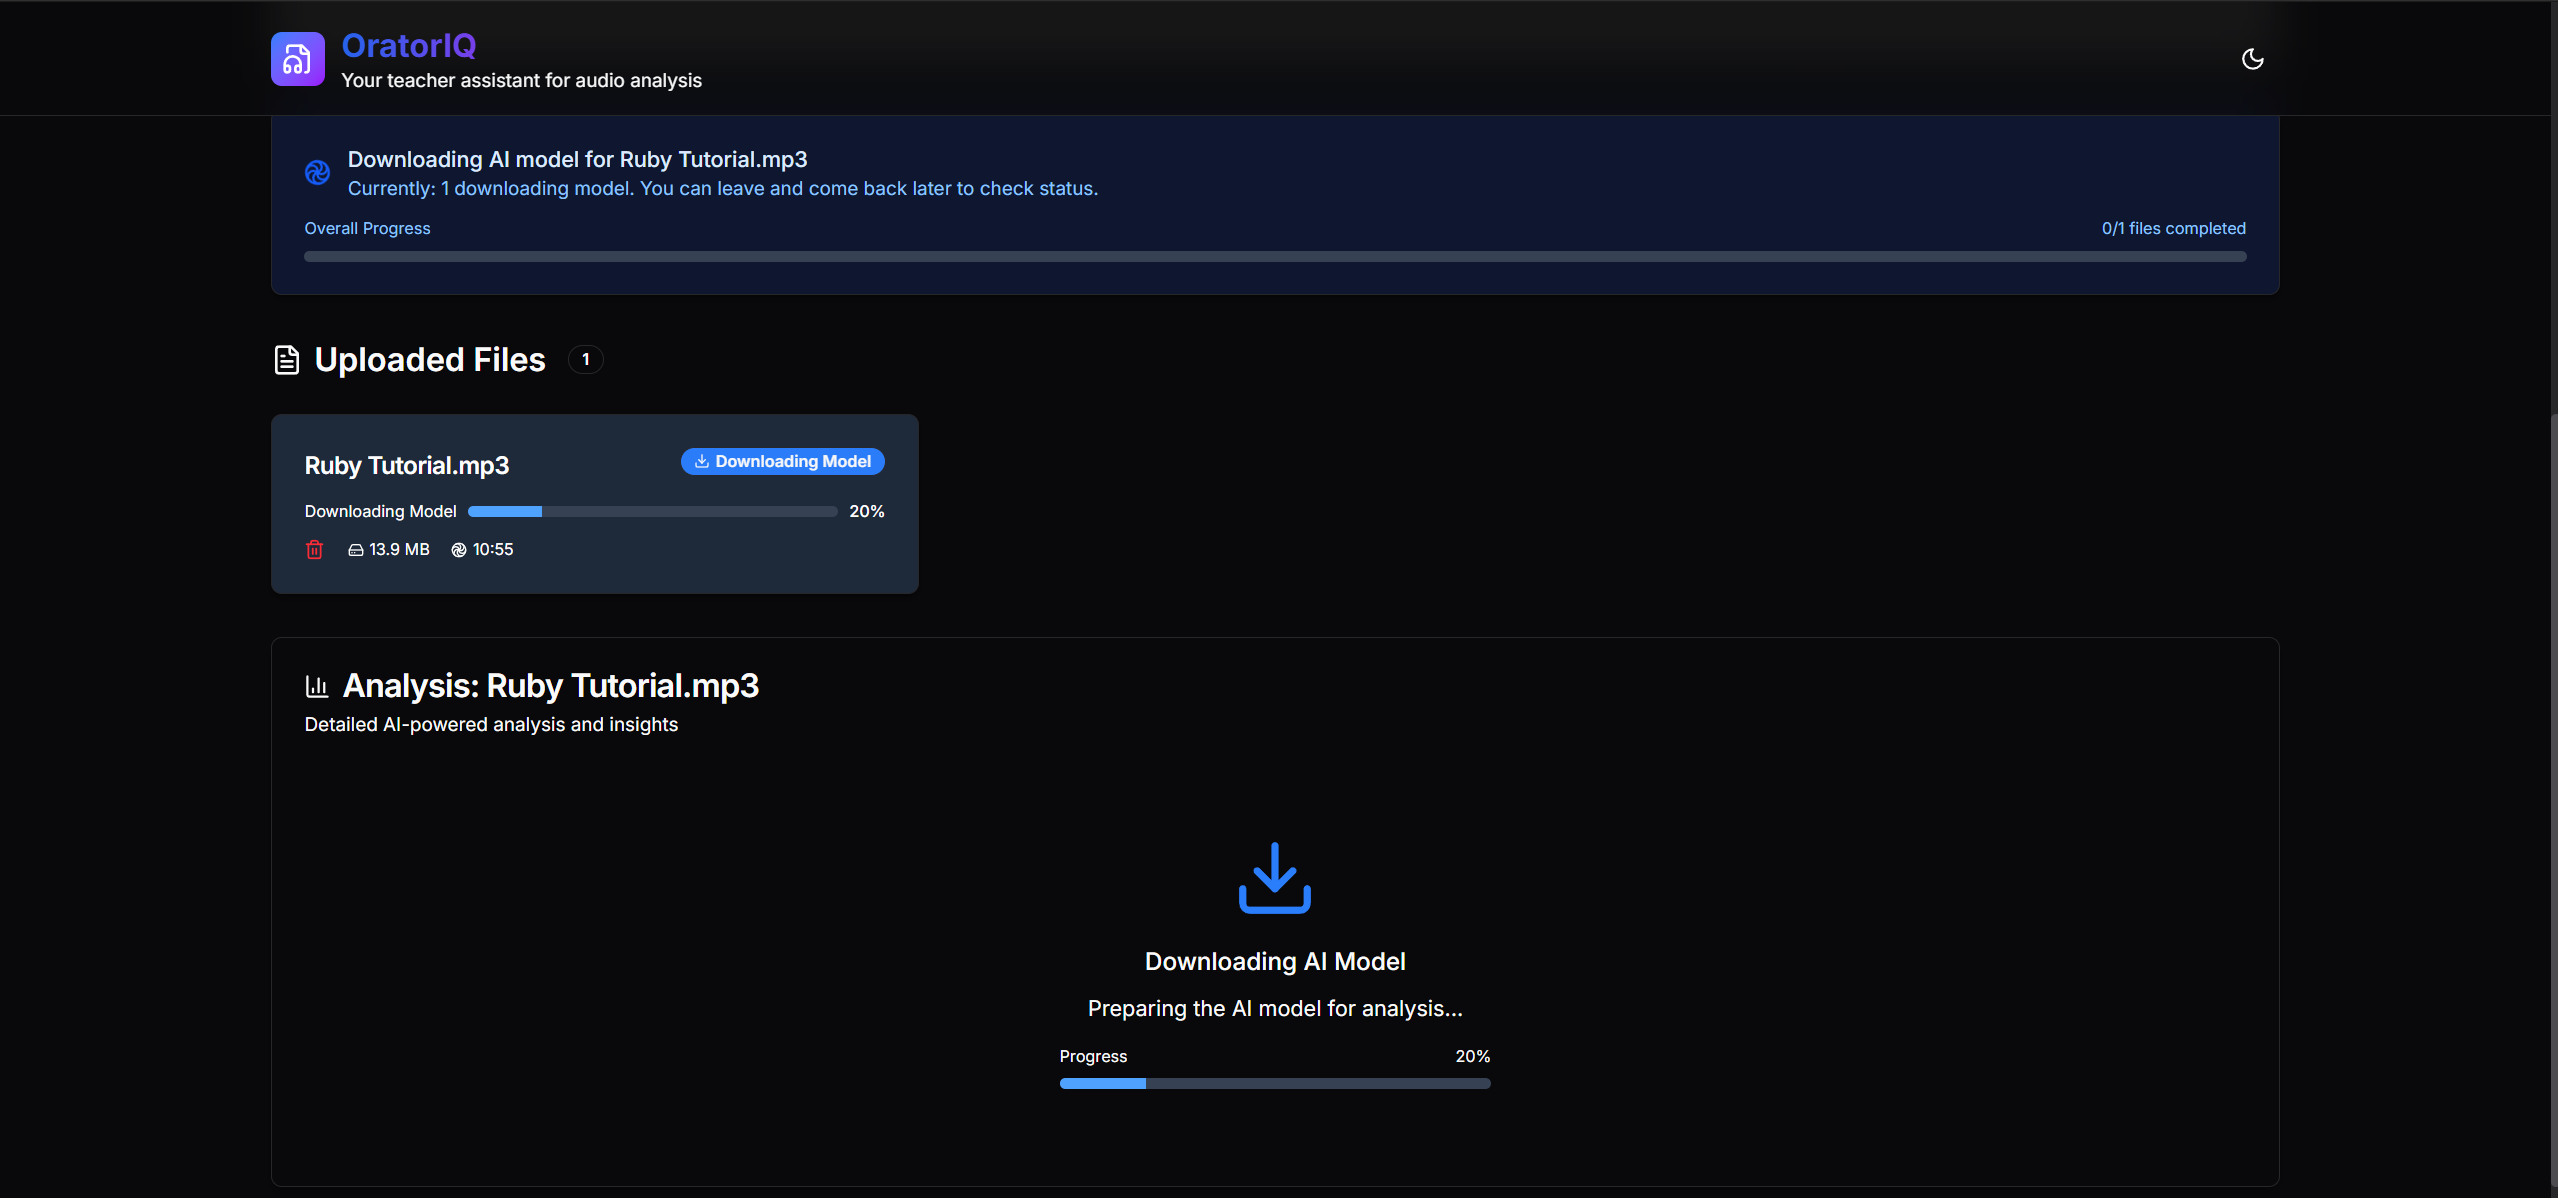
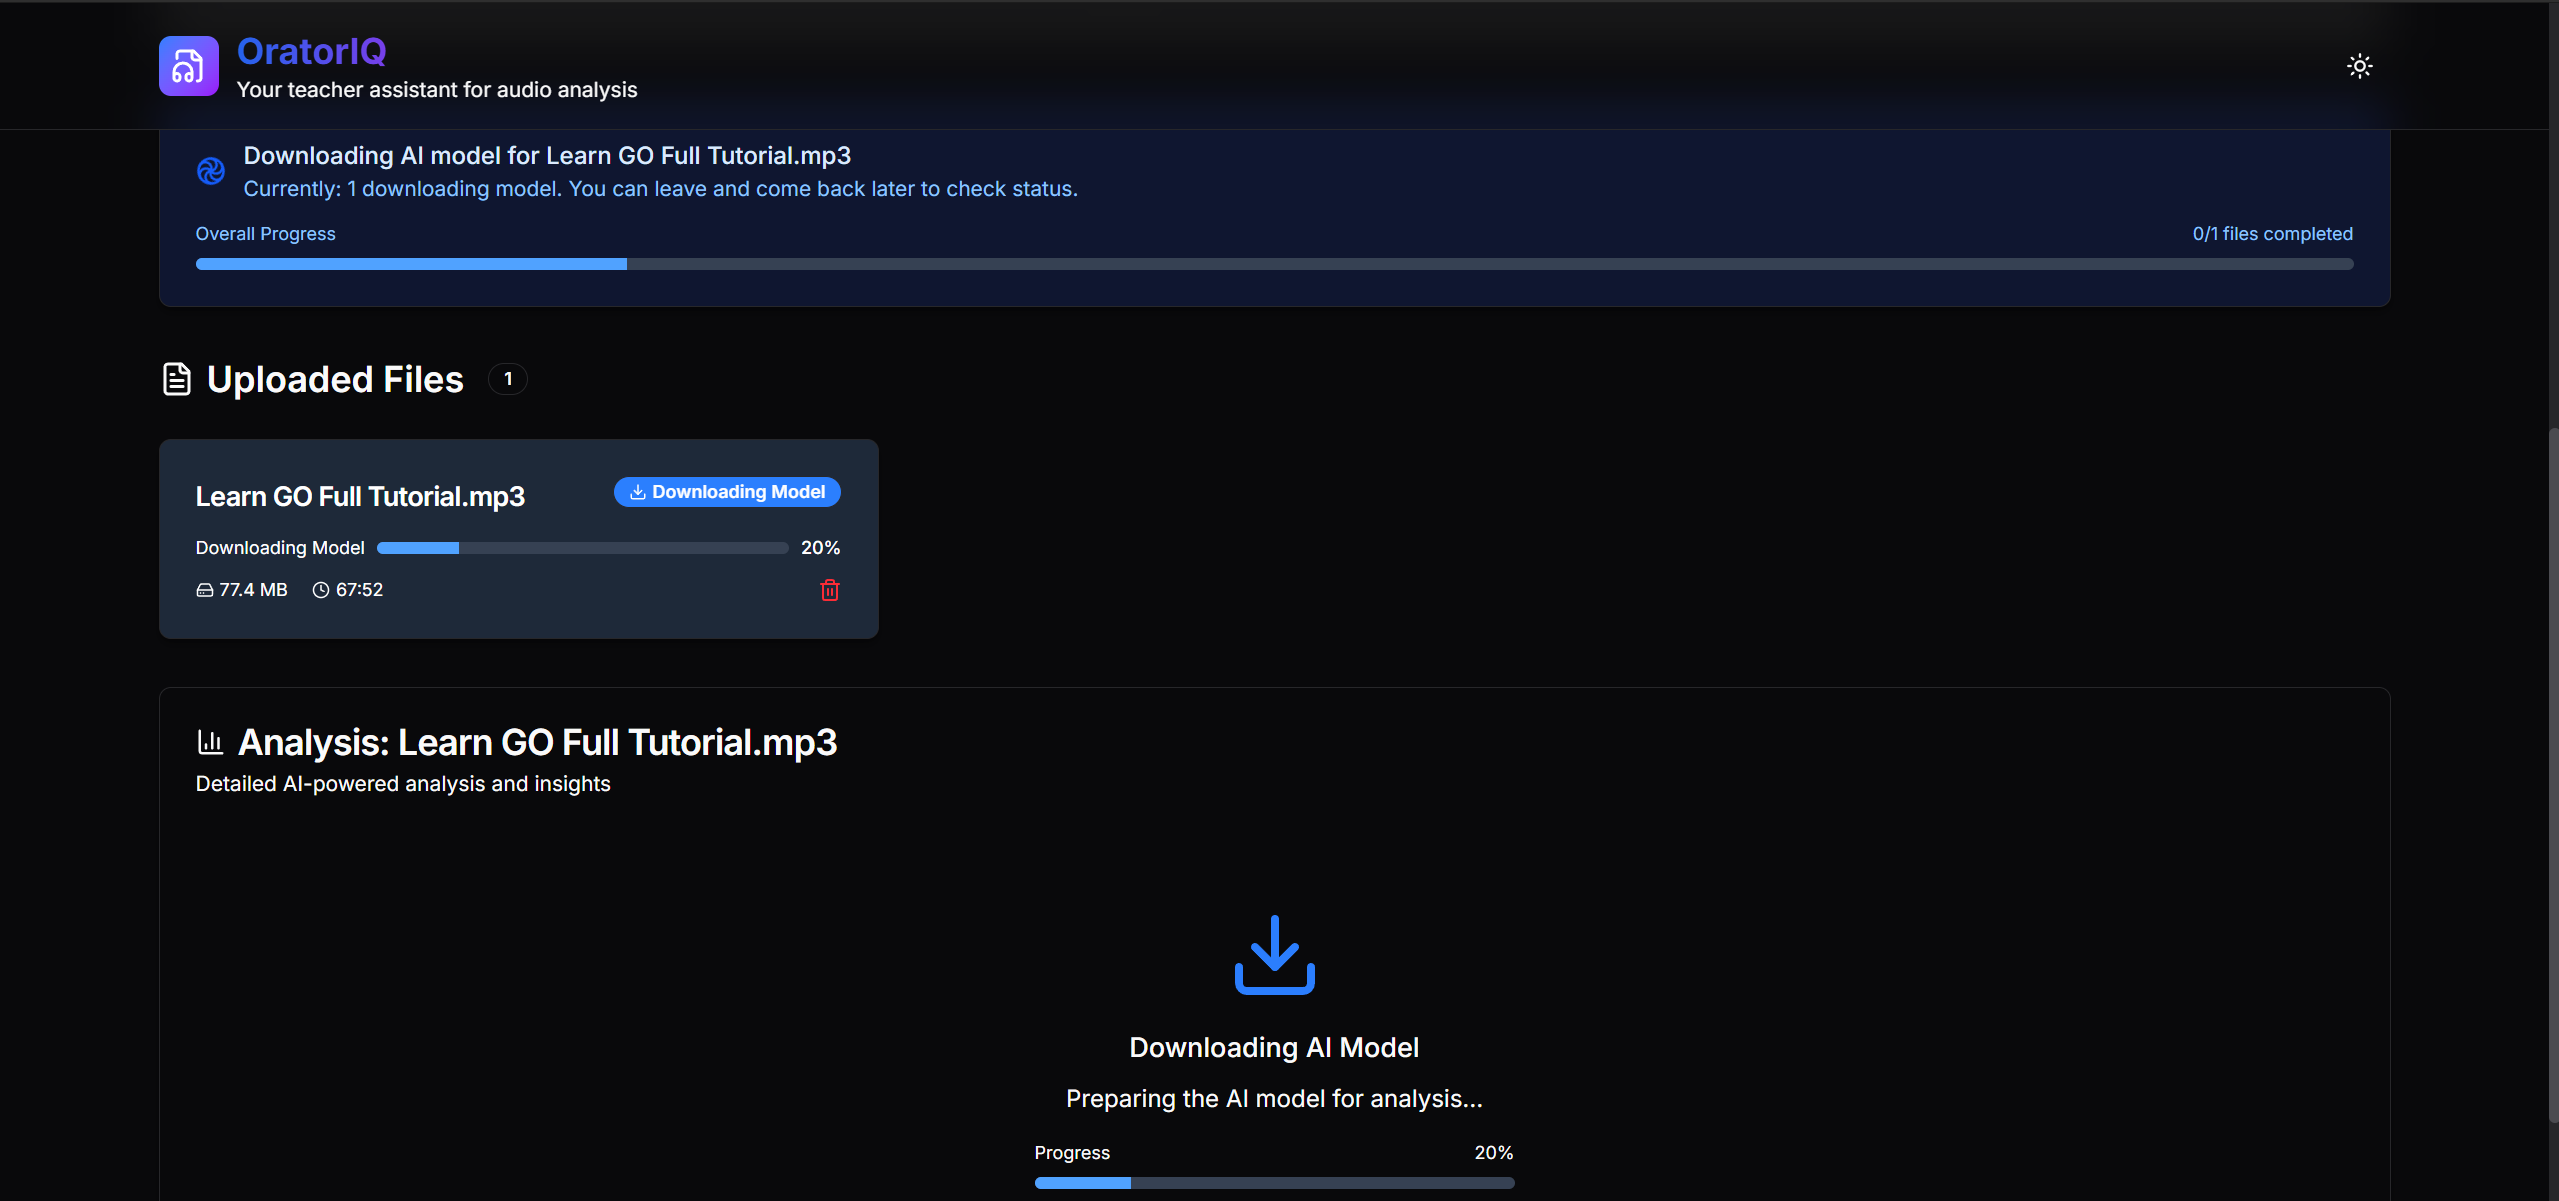
feat: update README with GPU requirements and setup instructions; enhance model display in frontend; improve transcription process with GPU support; Updated assets

diff --git a/frontend/src/App.jsx b/frontend/src/App.jsx
@@ -15,6 +15,7 @@ import {
   Upload,
   FileAudio,
   LoaderPinwheel,
+  Clock,
   CheckCircle,
   MessageSquare,
   FileText,
@@ -371,13 +372,23 @@ export default function App() {
                 f.processing_stage !== "complete" &&
                 f.processing_stage !== "error"
             );
-            const totalFiles = files.length;
-            const completedFiles = files.filter(
+
+            // Only consider files that are not complete for progress
+            const processingFilesOnly = files.filter(
+              (f) => f.processing_stage !== "complete"
+            );
+            const totalFiles = processingFilesOnly.length;
+            const completedFiles = processingFilesOnly.filter(
               (f) => f.processing_stage === "complete"
             ).length;
             const overallProgress =
               totalFiles > 0
-                ? Math.round((completedFiles / totalFiles) * 100)
+                ? Math.round(
+                  processingFiles.reduce(
+                    (sum, f) => sum + (f.progress_percentage || 0),
+                    0
+                  ) / totalFiles
+                )
                 : 0;
 
             const stageGroups = processingFiles.reduce((acc, file) => {
@@ -580,35 +591,6 @@ export default function App() {
                           </div>
                         )}
 
-                      {/* File Metadata */}
-                      <div className="flex items-center space-x-4 text-xs text-black dark:text-white">
-                        <button
-                          onClick={(e) => {
-                            e.stopPropagation();
-                            if (window.confirm(`Are you sure you want to delete and stop processing '${f.filename}'?`)) {
-                              deleteFile(f.id);
-                            }
-                          }}
-                          className="text-red-500 hover:text-red-600 transition-colors"
-                          title="Delete file"
-                          onMouseOver={(e) => {
-                            e.target.style.cursor = "pointer";
-                          }}
-                        >
-                          <Trash2 className="h-4 w-4" />
-                        </button>
-                        <div className="flex items-center space-x-1">
-                          <HardDrive className="h-3 w-3" />
-                          <span>{formatFileSize(f.file_size)}</span>
-                        </div>
-                        {f.audio_duration && (
-                          <div className="flex items-center space-x-1">
-                            <LoaderPinwheel className="h-3 w-3" />
-                            <span>{formatDuration(f.audio_duration)}</span>
-                          </div>
-                        )}
-                      </div>
-
                       {/* Model Info for Complete Files */}
                       {f.processing_stage === "complete" &&
                         f.selected_model && (
@@ -617,6 +599,41 @@ export default function App() {
                             <span>{f.selected_model.split("/").pop()}</span>
                           </div>
                         )}
+
+                      {/* File Metadata */}
+                      <div className="flex items-center justify-between text-xs text-black dark:text-white">
+                        <div className="flex items-center space-x-4">
+                          <div className="flex items-center space-x-1">
+                            <HardDrive className="h-3 w-3" />
+                            <span>{formatFileSize(f.file_size)}</span>
+                          </div>
+                          {f.audio_duration && (
+                            <div className="flex items-center space-x-1">
+                              <Clock className="h-3 w-3" />
+                              <span>{formatDuration(f.audio_duration)}</span>
+                            </div>
+                          )}
+                        </div>
+                        <button
+                          onClick={(e) => {
+                            e.stopPropagation();
+                            if (
+                              window.confirm(
+                                `Are you sure you want to delete and stop processing '${f.filename}'?`
+                              )
+                            ) {
+                              deleteFile(f.id);
+                            }
+                          }}
+                          className="text-red-500 hover:text-red-600 transition-colors ml-2"
+                          title="Delete file"
+                          onMouseOver={(e) => {
+                            e.target.style.cursor = "pointer";
+                          }}
+                        >
+                          <Trash2 className="h-4 w-4" />
+                        </button>
+                      </div>
                     </CardContent>
                   </Card>
                 );

diff --git a/backend/app/analytics.py b/backend/app/analytics.py
@@ -10,14 +10,11 @@ logger = logging.getLogger(__name__)
 
 # Get Ollama URL from environment
 OLLAMA_URL = os.getenv('OLLAMA_URL', 'http://localhost:11434')
-DEFAULT_MODEL = "vatistasdim/boXai" #"krith/meta-llama-3.2-1b-instruct-uncensored" #"smollm" #"sadiq-bd/llama3.2-1b-uncensored"
+DEFAULT_MODEL = "vatistasdim/boXai"
 
 def call_ollama(prompt: str, model: str = DEFAULT_MODEL) -> str:
     """Call the self-hosted Ollama LLM"""
     try:
-        # Compute context length based on prompt length
-        context_length = prompt.count('') * 2 + 1000  # 2 tokens per character + 1000 for safety
-
         response = requests.post(
             f"{OLLAMA_URL}/api/generate",
             json={
@@ -27,7 +24,7 @@ def call_ollama(prompt: str, model: str = DEFAULT_MODEL) -> str:
                 "options": {
                     "temperature": 0.3,
                     "top_p": 0.9,
-                    "num_ctx": context_length
+                    "num_ctx": 2048 # Carefull with vram limit
                 }
             },
             timeout=30
@@ -50,7 +47,7 @@ def simple_summary(text: str, sentences: int = 2, model: str = DEFAULT_MODEL) ->
         return "No summary available"
     
     # Try LLM first
-    prompt = f"""Veuillez fournir un résumé personnalisé du texte suivant en quelques phrases. Le résumé doit capturer les points clés et les idées principales du texte. Limitez le résumé à {sentences} phrases maximum.
+    prompt = f"""Veuillez fournir un résumé personnalisé du texte suivant en quelques phrases. Le résumé doit capturer les points clés et les idées principales du texte. Limitez le résumé à {sentences} phrases maximum. Le résumé doit être en français et ne doit pas inclure d'autres instructions ou commentaires.
 
     Texte: {text}
 
@@ -65,12 +62,12 @@ def simple_summary(text: str, sentences: int = 2, model: str = DEFAULT_MODEL) ->
     return "No summary available"
 
 def generate_questions(text: str, num: int = 3, model: str = DEFAULT_MODEL) -> List[str]:
-    """Generate questions using self-hosted LLM with fallback"""
+    """Generate questions using self-hosted LLM"""
     if not text or text.startswith('['):
         return []
     
     # Try LLM first
-    prompt = f"""Basé sur le texte suivant, générez {num} questions réfléchies qui aideraient quelqu'un à comprendre les concepts clés et les idées discutées. Formatez chaque question sur une nouvelle ligne. Aucun autre texte n'est nécessaire, juste les questions.
+    prompt = f"""Basé sur le texte suivant, générez {num} questions réfléchies qui aideraient quelqu'un à comprendre les concepts clés et les idées discutées. Formatez chaque question sur une nouvelle ligne. Aucun autre texte n'est nécessaire, juste les questions. Les questions doivent être en français et pertinentes par rapport au contenu du texte. Ne pas inclure d'autres instructions ou commentaires.
 
     Texte: {text[:1000]}
 

diff --git a/backend/app/transcription.py b/backend/app/transcription.py
@@ -34,7 +34,7 @@ def extract_audio_duration(path: str) -> float:
     return 0.0
 
 def transcribe_file(path: str, db: Session, audio_id: int) -> str:
-    """Transcribe audio file using Whisper AI with progress updates"""
+    """Transcribe audio file using Whisper AI"""
     try:
         # Update progress - starting transcription
         crud.update_progress(db, audio_id, "transcribing", 25)
@@ -52,15 +52,15 @@ def transcribe_file(path: str, db: Session, audio_id: int) -> str:
         logger.info(f"Starting transcription of {path}")
         import whisper
         
-        # Load model
-        model = whisper.load_model("base")
-        logger.info("Whisper model loaded successfully")
+        # Load model with GPU support
+        model = whisper.load_model("base", device="cuda")
+        logger.info("Whisper model loaded successfully with GPU support")
         
         # Update progress - model loaded
         crud.update_progress(db, audio_id, "transcribing", 50)
         
         # Transcribe
-        result = model.transcribe(path)
+        result = model.transcribe(path, fp16=True)
         text = result.get("text", "").strip()
         
         # Update progress - transcription complete
@@ -127,8 +127,11 @@ def process_audio(db: Session, audio_id: int, path: str, selected_model: str = N
         
         crud.update_progress(db, audio_id, "analyzing", 90)
         
+        # Generate questions
         questions_list = generate_questions(text, model=model_to_use)
         logger.info(f"Generated questions: {questions_list}")
+
+        # Format questions
         questions = '\n'.join([f"{i+1}. {q}" for i, q in enumerate(questions_list)]) if questions_list else "No questions generated"
         
         # Update database with final results

diff --git a/backend/app/main.py b/backend/app/main.py
@@ -106,7 +106,7 @@ def get_available_models():
             # Always add these default models if not already present
             default_models = [
                 {'name': 'vatistasdim/boXai', 'display_name': 'boXai (Default)', 'size': 0},
-                {'name': 'krith/meta-llama-3.2-1b-instruct-uncensored', 'display_name': 'Llama 3.2 1B', 'size': 0},
+                {'name': 'llama3.2:1b', 'display_name': 'Llama 3.2', 'size': 0},
                 {'name': 'smollm', 'display_name': 'SmolLM', 'size': 0}
             ]
 
@@ -121,7 +121,7 @@ def get_available_models():
             return {
                 "models": [
                     {'name': 'vatistasdim/boXai', 'display_name': 'boXai (Default)', 'size': 0},
-                    {'name': 'krith/meta-llama-3.2-1b-instruct-uncensored', 'display_name': 'Llama 3.2 1B', 'size': 0},
+                    {'name': 'llama3.2:1b', 'display_name': 'Llama 3.2', 'size': 0},
                     {'name': 'smollm', 'display_name': 'SmolLM', 'size': 0}
                 ],
                 "ollama_available": False

diff --git a/README.md b/README.md
@@ -14,7 +14,7 @@ Un système sophistiqué de transcription de cours qui convertit les fichiers au
 
 ## Avantages
 
-- **Gain de temps** : Convertit rapidement les cours audio en texte et en résumés
+- **Gain de temps** : Convertit rapidement les cours audio en texte et en résumés. Environs 3 minutes pour 1h10min de cours audio avec un GPU Nvidia RTX 4060 mobile
 - **Application légère** : Conçu pour être rapide et efficace, même avec de gros fichiers audio
 - **Hébergement facile** : Déployable en une seule commande via Docker pour une configuration simple, en gardant le contrôle de vos données
 
@@ -52,7 +52,10 @@ Accédez à votre transcription, résumé et questions générées dans un forma
 ## Démarrage rapide
 
 ### Prérequis
-- [Docker](https://docs.docker.com/engine/install/) installés sur votre système
+- Distribution Linux basées sur Debian (Ubuntu, etc.)
+- [Docker installés](https://docs.docker.com/engine/install/) sur votre système
+- Docker compose Version 2.0 ou supérieure
+- GPU Nvidia
 
 ### Configuration
 
@@ -60,6 +63,12 @@ Accédez à votre transcription, résumé et questions générées dans un forma
 ```bash
 git clone https://github.com/HydroshieldMKII/OratorIQ
 cd OratorIQ
+```
+
+2. **Setup pour GPU Nvidia**: 
+```bash
+chmod +x setupNvidiaContainerToolkit.sh
+./setupNvidiaContainerToolkit.sh
 ```
 
 2. **Déployer l'application** :
